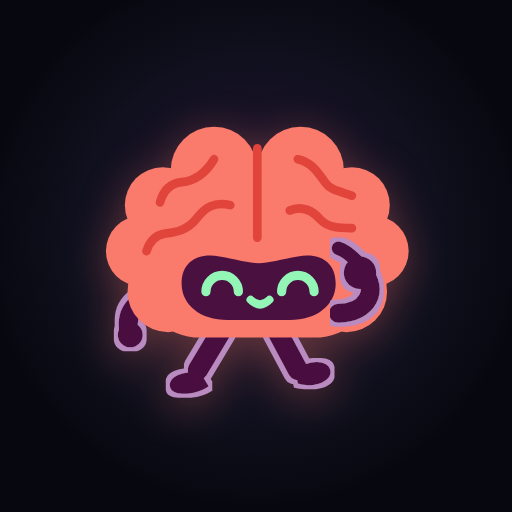
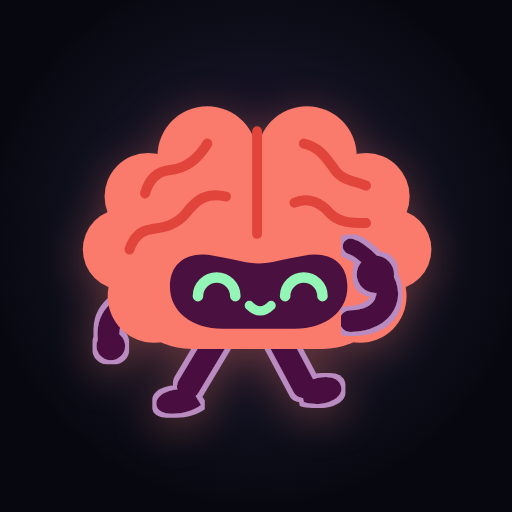
Icono: el personaje más grande, casi hasta el borde
Margen de 1.5 % en los iconos de Android y escritorio, 2.5 % en el de
Apple, ninguno en el favicon y 12 % en el enmascarable (Android lo
recorta en círculo).

Changed region(s): [[0.1562, 0.1875, 0.8438, 0.8438], [0.375, 0.4688, 0.4062, 0.5]]

diff --git a/tools/marca.js b/tools/marca.js
@@ -181,14 +181,14 @@ const logoHTML = () => \`<span class="logo" role="img" aria-label="Zuka">\${brai
 }
 
 // ---- iconos PNG ----
-// El personaje sobre el fondo oscuro de la app (pedido del 2026-11-20). `pad`: margen alrededor, en fracción del lado. El
+// El personaje sobre el fondo oscuro de la app, casi hasta el borde (pedidos del 2026-11-20). `pad`: margen alrededor, en fracción del lado. El
 // enmascarable (Android lo recorta en círculo u otra forma) lo deja dentro de la zona segura: un círculo del 80 %.
 const ICONS = [
-  { file: 'icons/icon-512.png', size: 512, pad: 0.07 },
-  { file: 'icons/icon-192.png', size: 192, pad: 0.07 },
-  { file: 'icons/icon-maskable-512.png', size: 512, pad: 0.17 },
-  { file: 'icons/apple-touch-icon.png', size: 180, pad: 0.08 },
-  { file: 'icons/favicon-48.png', size: 48, pad: 0.03, round: 0.22 },
+  { file: 'icons/icon-512.png', size: 512, pad: 0.015 },
+  { file: 'icons/icon-192.png', size: 192, pad: 0.015 },
+  { file: 'icons/icon-maskable-512.png', size: 512, pad: 0.12 },
+  { file: 'icons/apple-touch-icon.png', size: 180, pad: 0.025 },
+  { file: 'icons/favicon-48.png', size: 48, pad: 0, round: 0.22 },
 ];
 function iconPage({ size, pad, round = 0 }) {
   const s = size * (1 - 2 * pad);

diff --git a/sw.js b/sw.js
@@ -2,7 +2,7 @@
 // Archivos propios: red primero (para recibir actualizaciones) y caché si no hay conexión.
 // Recursos externos (KaTeX, fuentes): caché primero.
 
-const VERSION = 'zuka-v221';
+const VERSION = 'zuka-v222';
 const SHELL = [
   './', 'index.html', 'manifest.json', 'css/styles.css', 'js/marca.js', 'js/mascota.js',
   'js/games/algebra-taller.js', 'js/games/algebra-escenas.js', 'js/courses/algebra-taller.js', 'js/courses/algebra-revision.js',

diff --git a/docs/superpowers/specs/2026-11-20-icono-y-entrada.md b/docs/superpowers/specs/2026-11-20-icono-y-entrada.md
@@ -4,7 +4,7 @@ Pedido del usuario: cambiar el icono de la app por el nuevo personaje (el cerebr
 cargar la app en la que el personaje dice «Zuka potencia tu mente».
 
 - **Icono**: `node tools/marca.js --png` dibuja `icons/*.png` con el personaje en la pose de la imagen (`think`) sobre el
-  fondo oscuro de la app (#07080f, con un brillo morado suave). El enmascarable de Android lo deja dentro de la zona
+  fondo oscuro de la app (#07080f, con un brillo morado suave), casi hasta el borde (margen de 1.5 %; 12 % en el enmascarable). El enmascarable de Android lo deja dentro de la zona
   segura (círculo del 80 %). El cerebro de malla sigue en `js/marca.js` y `brand/` (logo de cuenta y panel).
 - **Entrada**: `introBlock()` de `tools/marca.js` escribe en la portada `#boot` el personaje (`cheer`) y un globo:
   «Zuka» en coral y «potencia tu mente» palabra por palabra. El personaje aparece con un rebote (0.1 s), el globo
